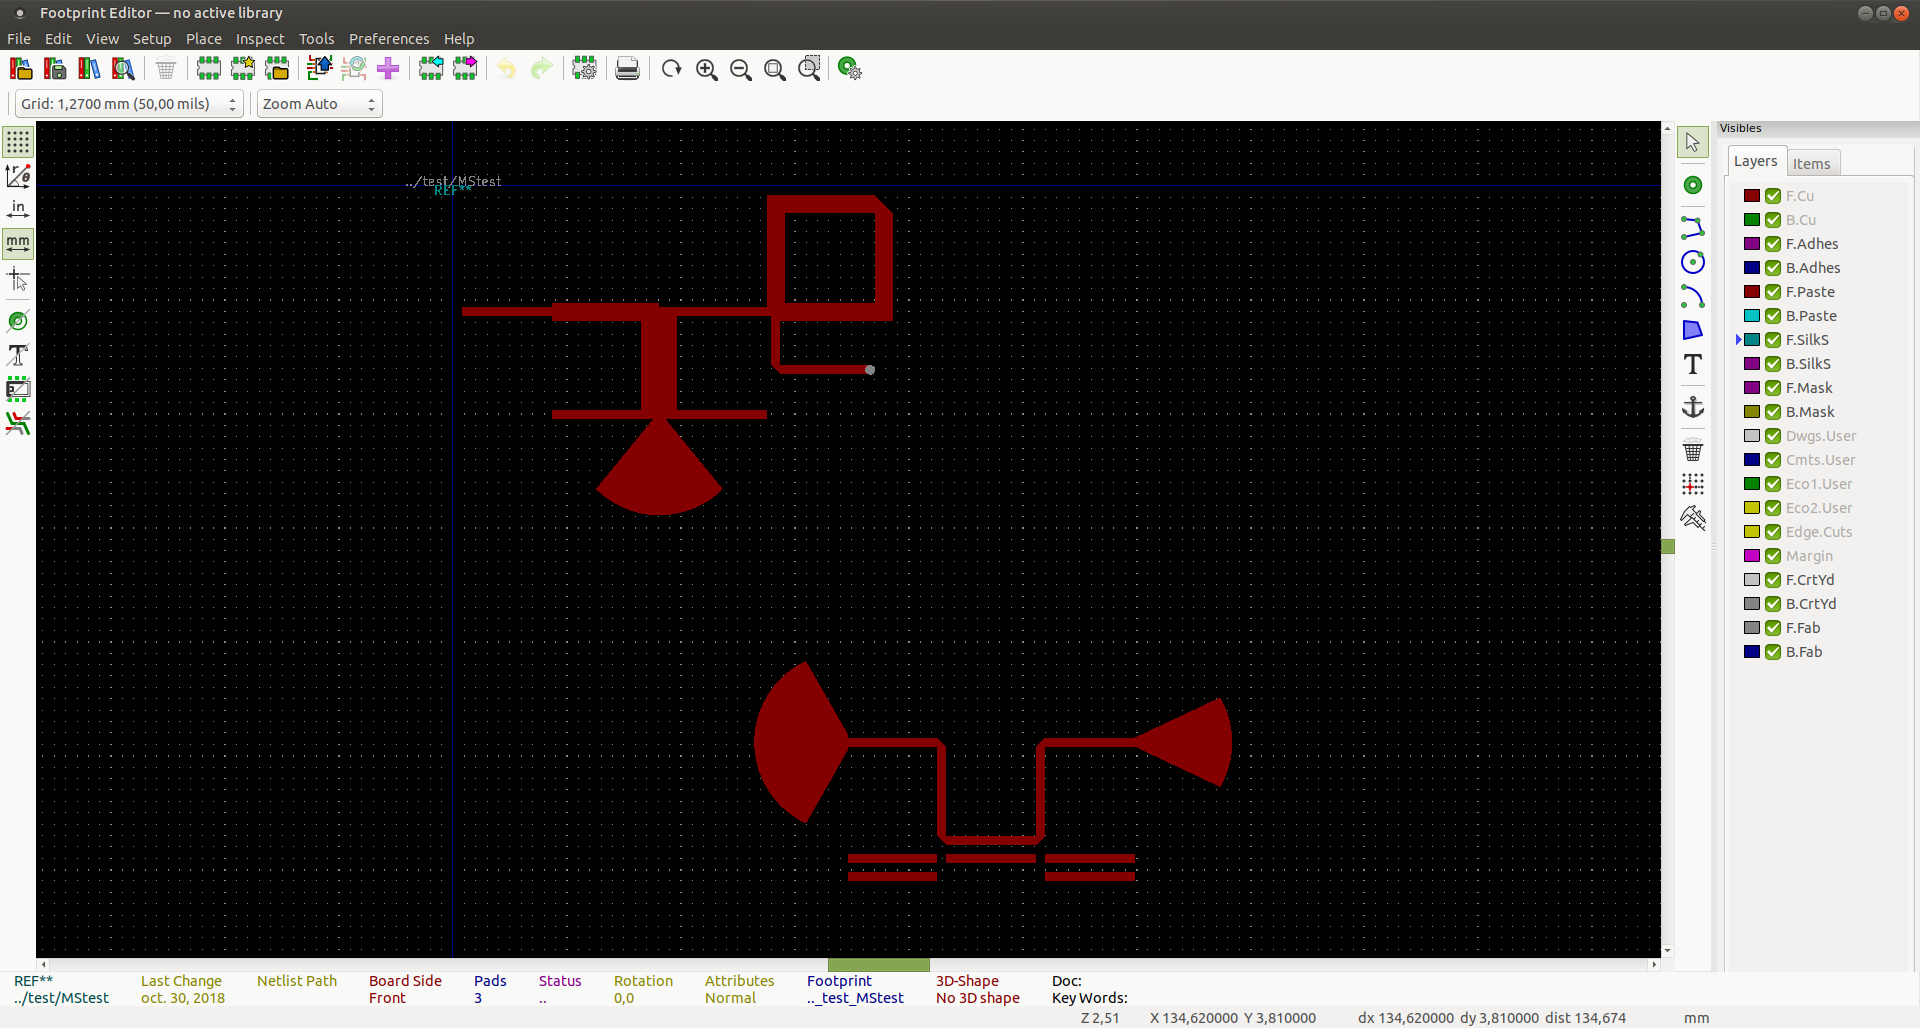
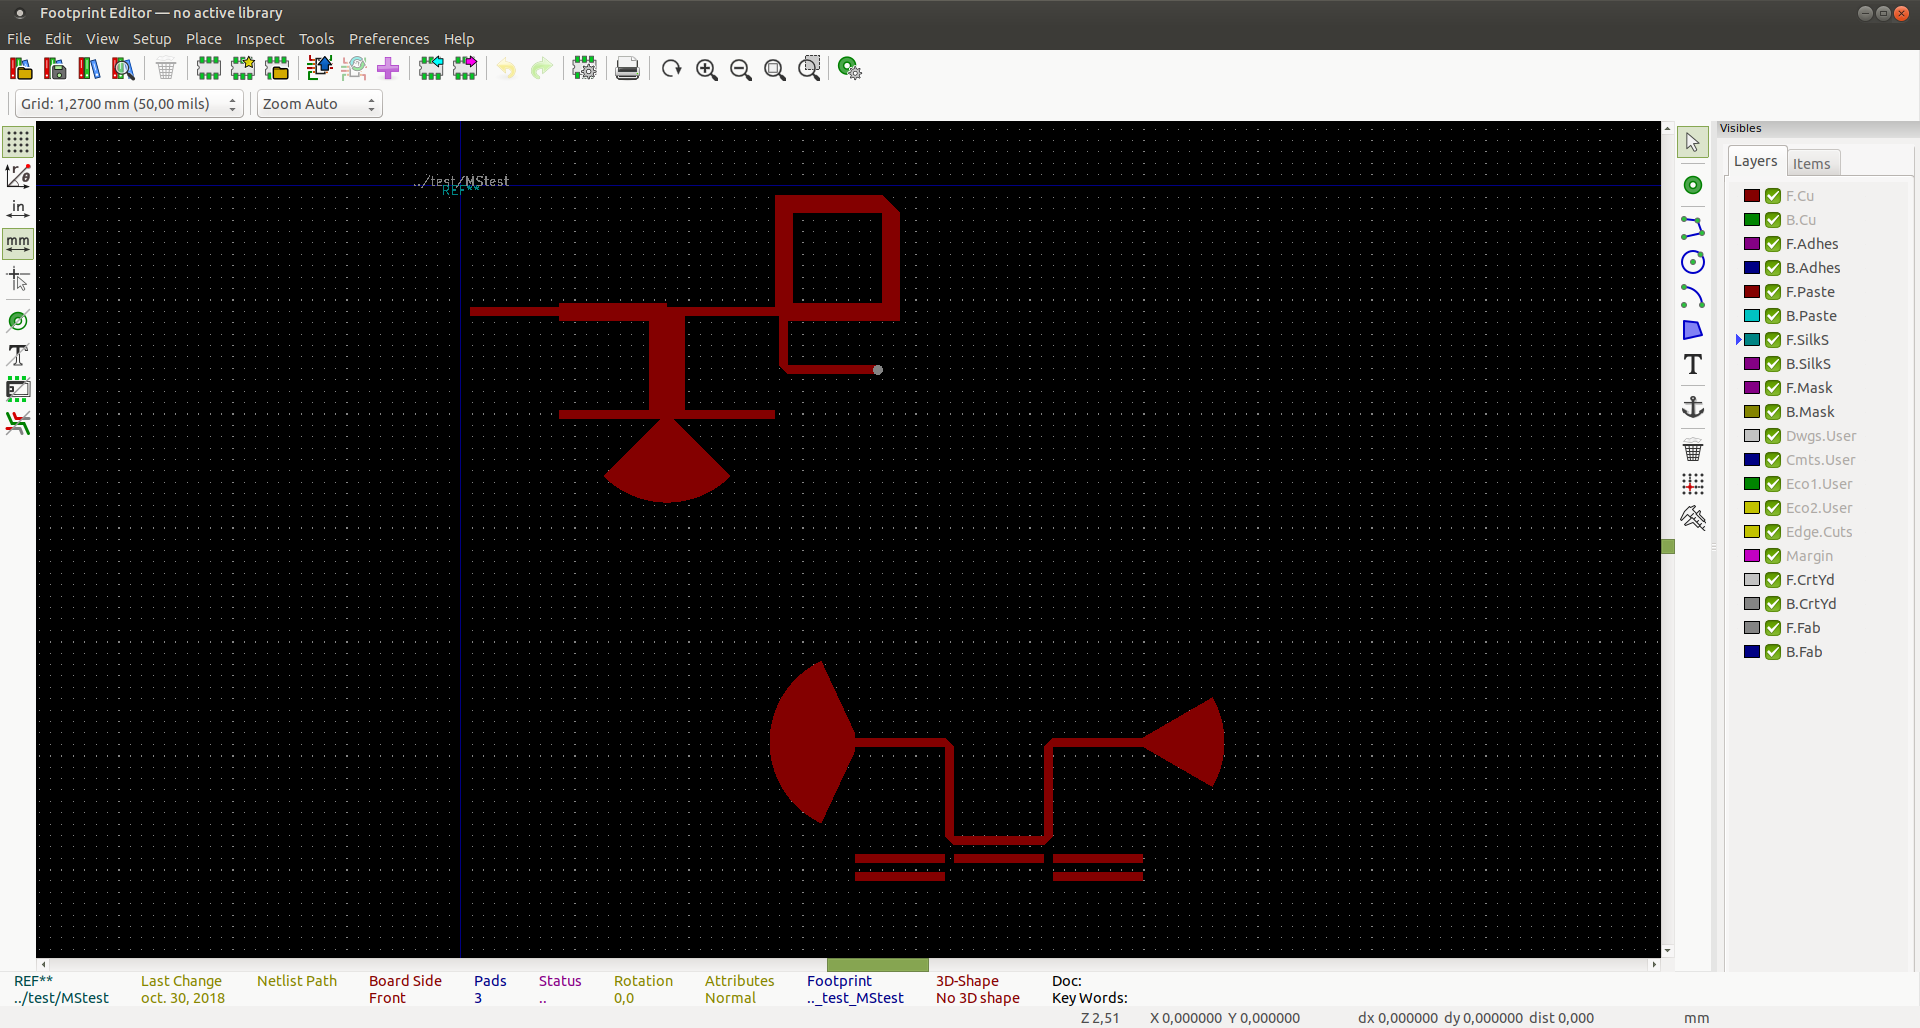
MRSTUB fix a shape bug: -L -> +L

diff --git a/microstrip/mrstub.cpp b/microstrip/mrstub.cpp
@@ -96,14 +96,14 @@ int Mrstub::setP(void) {
 	tab_p[1][_X]=-m_w/2;
 	tab_p[1][_Y]=0;
 	tab_p[2][_X]= m_ro*sin((M_PI/180)*(-m_alpha/2));
-	tab_p[2][_Y]=s*((-m_ro*cos((M_PI/180)*(-m_alpha/2)))-m_l);
+	tab_p[2][_Y]=s*((-m_ro*cos((M_PI/180)*(-m_alpha/2)))+m_l);
 	for(int i=3;i<m_npoint-1;i++) {
 		tab_p[i][_X]=m_ro*sin((M_PI/180)*(u));
-		tab_p[i][_Y]=s*((-m_ro*cos((M_PI/180)*(u)))-m_l);
+		tab_p[i][_Y]=s*((-m_ro*cos((M_PI/180)*(u)))+m_l);
 		u+=n;
 		}
 	tab_p[m_npoint-1][_X]=-m_ro*sin((M_PI/180)*(-m_alpha/2));
-	tab_p[m_npoint-1][_Y]=s*((-m_ro*cos((M_PI/180)*(-m_alpha/2)))-m_l);
+	tab_p[m_npoint-1][_Y]=s*((-m_ro*cos((M_PI/180)*(-m_alpha/2)))+m_l);
 	return(0);
 	}
 
